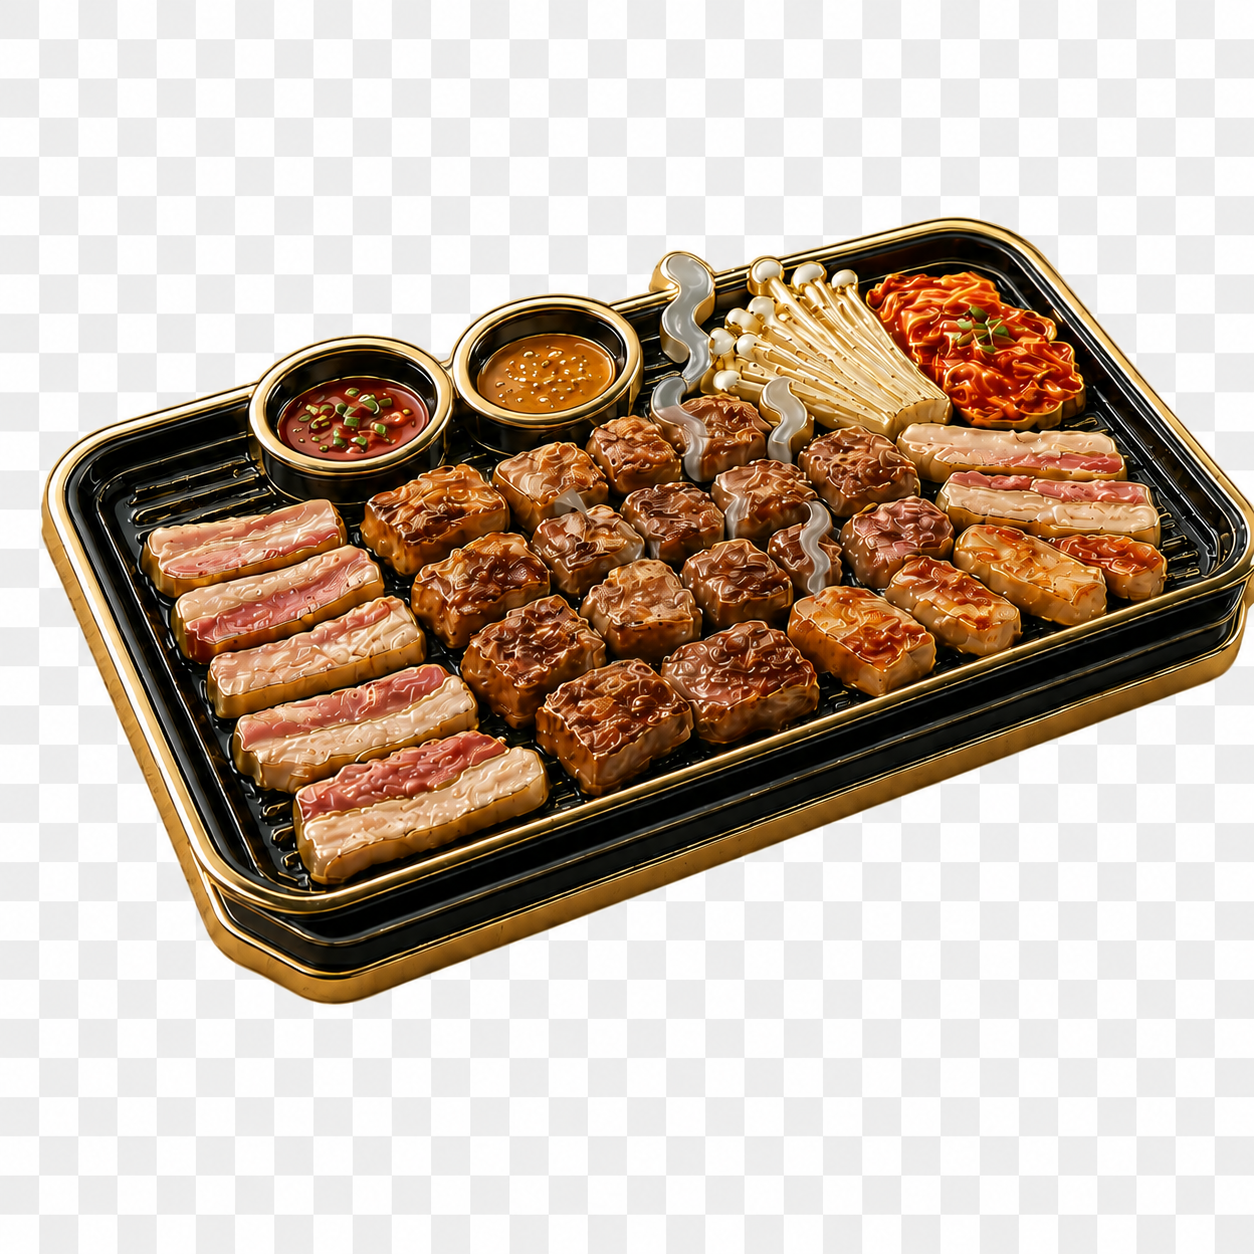
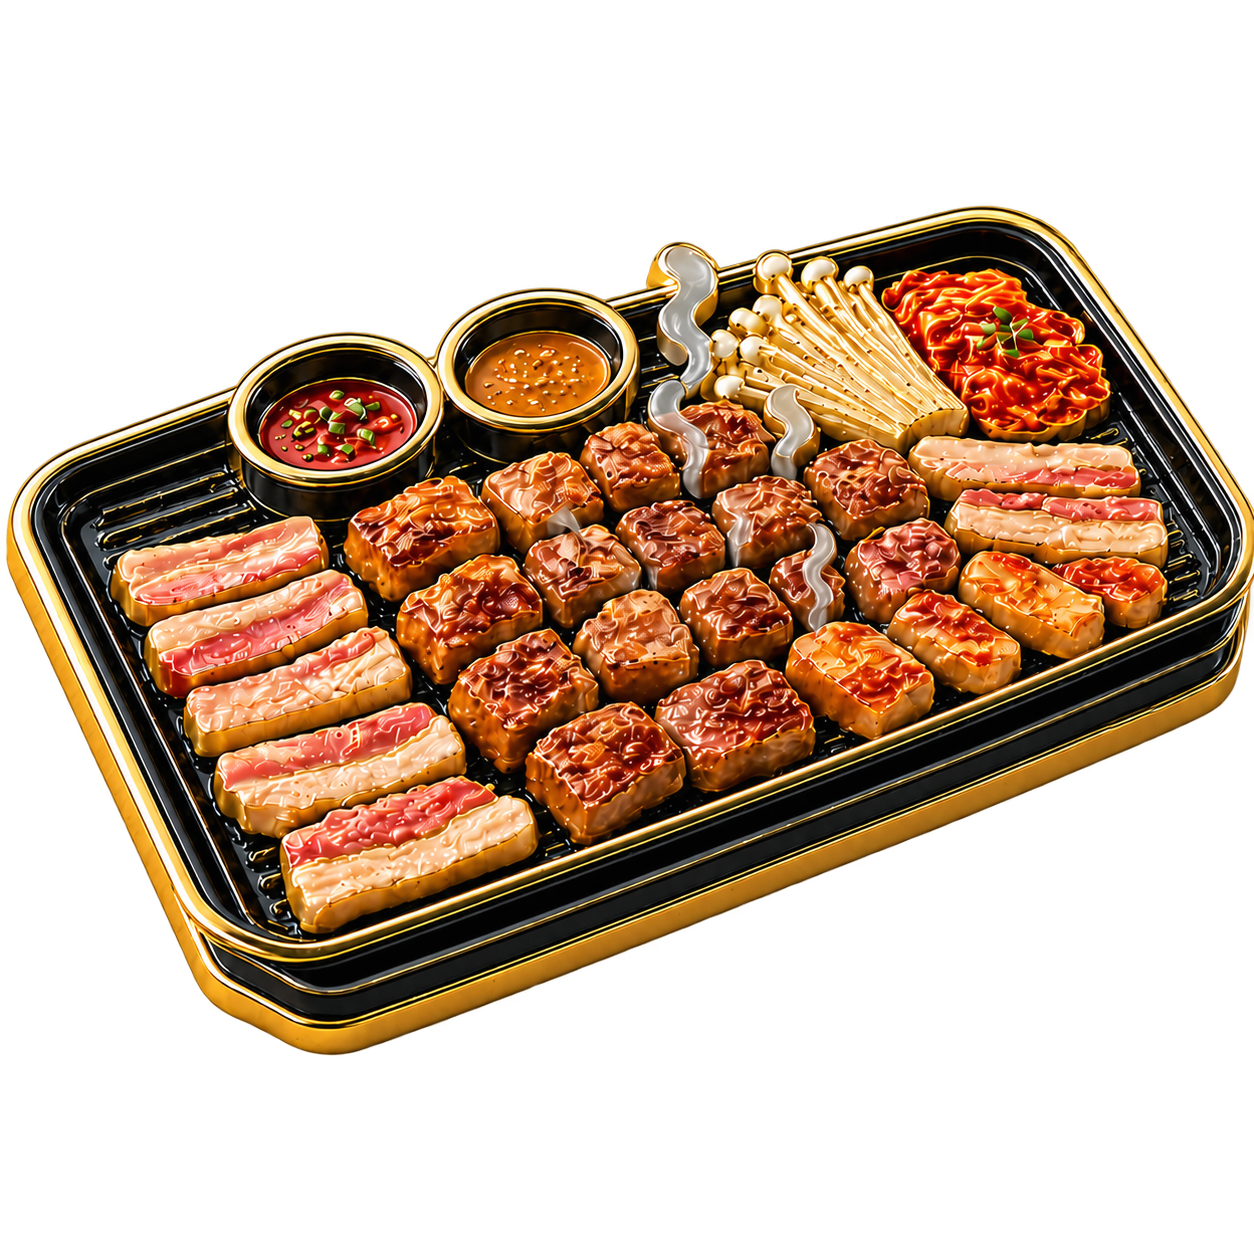
v53 fix April 22 barbecue badge transparency

diff --git a/journal-badge-board.js b/journal-badge-board.js
@@ -103,7 +103,7 @@
   };
   const seedJejuApril22 = async (record, journalTitle, date) => {
     if (journalTitle !== "济州岛" || date !== "2026-04-22") return record;
-    const systemIds = new Set(["jeju-april22-1", "jeju-april22-2"]);
+    const systemIds = new Set(["jeju-april22-1-v2", "jeju-april22-2"]);
     const withoutUploadedBadges = record.badges.filter((badge) =>
       systemIds.has(badge.id),
     );
@@ -115,7 +115,7 @@
     const missing = JEJU_APRIL22_BADGES.map((src, index) => ({
       src,
       index,
-      id: `jeju-april22-${index + 1}`,
+      id: index === 0 ? "jeju-april22-1-v2" : "jeju-april22-2",
     })).filter((item) => !existing.has(item.id));
     if (!missing.length) return record;
     const blobs = await Promise.all(

diff --git a/index.html b/index.html
@@ -406,7 +406,7 @@
     <script src="./journal-v2.js"></script>
     <script>
       (() => {
-        const APP_VERSION = "52";
+        const APP_VERSION = "53";
         let availableVersion = "",
           checking = false,
           swRegistration = null;

diff --git a/sw.js b/sw.js
@@ -1,4 +1,4 @@
-const CACHE = "zhijian-pwa-v52";
+const CACHE = "zhijian-pwa-v53";
 const APP_SHELL = [
   "./",
   "./index.html",
